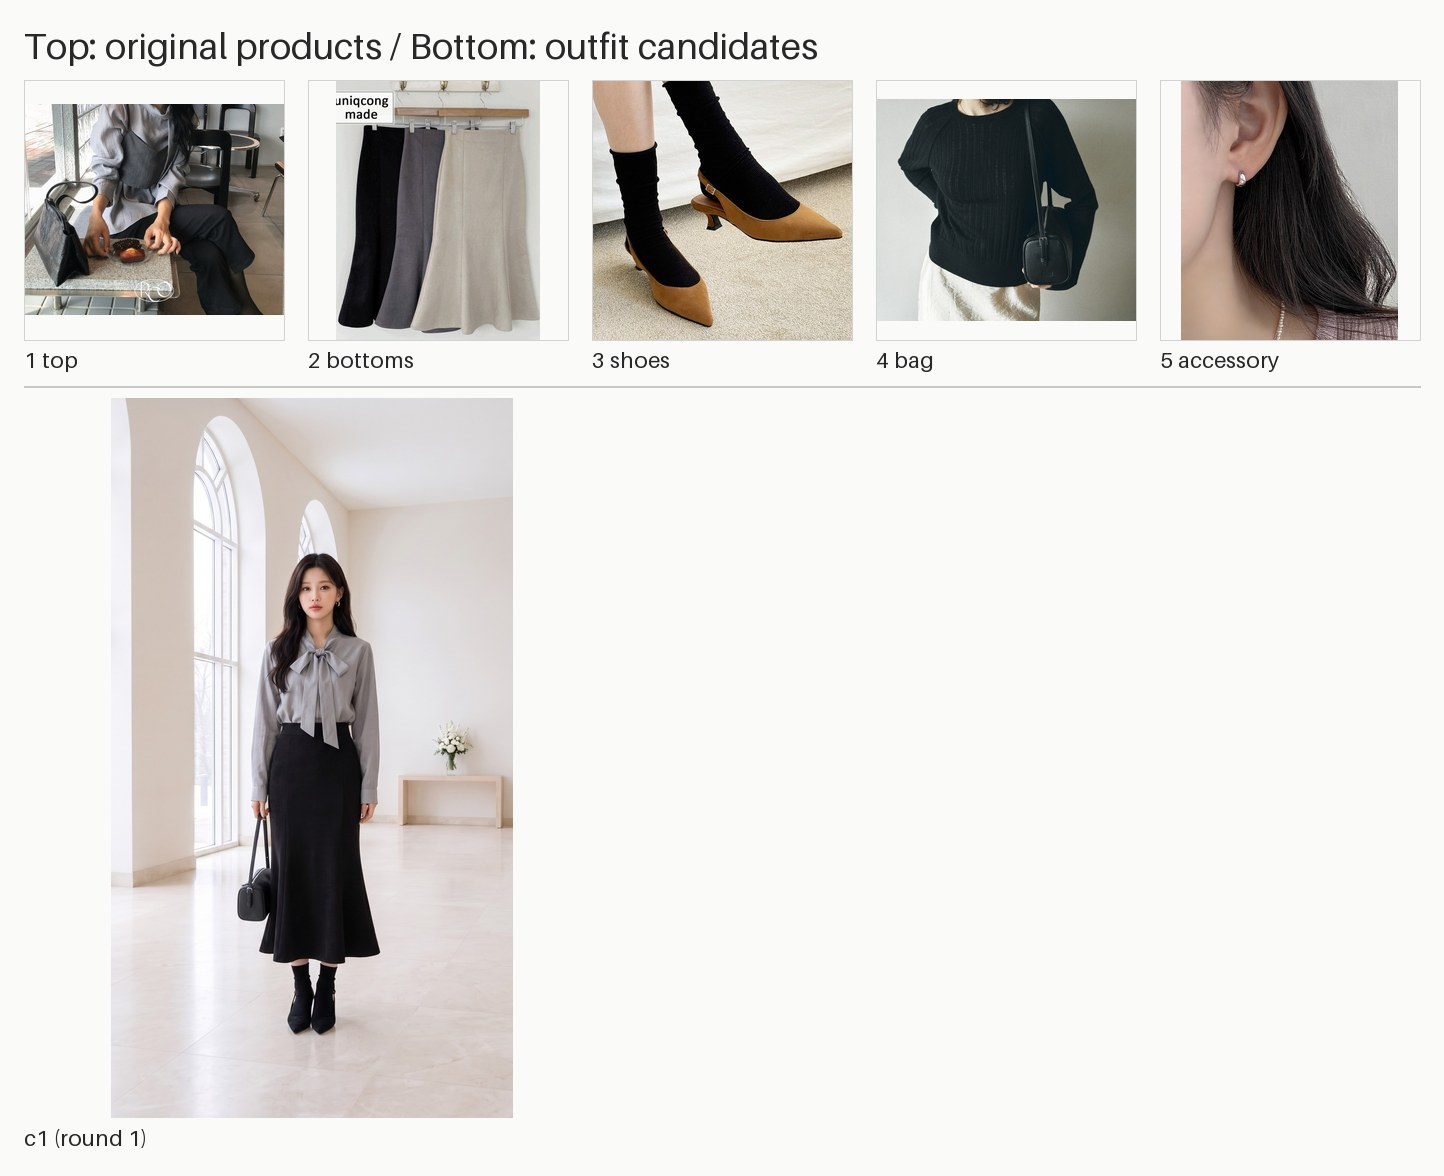
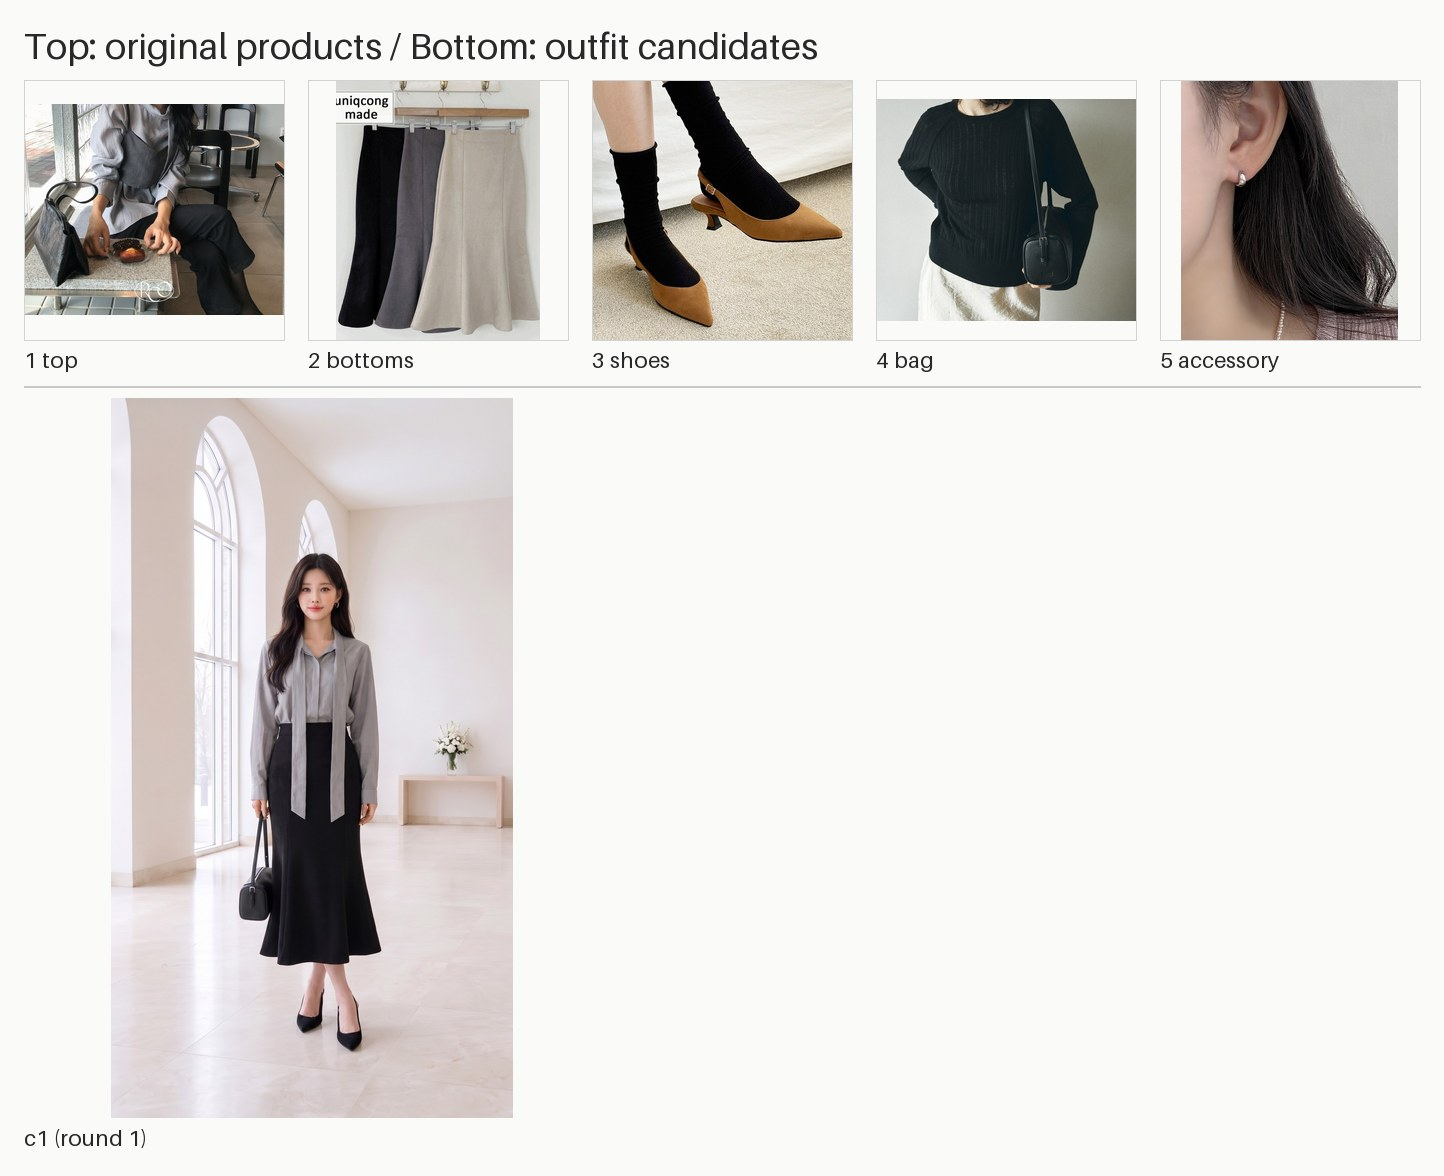
코디 영상 2026-11-07-run453-l123578 (scene_frames)

Changed region(s): [[0.1558, 0.4898, 0.2493, 0.7959], [0.187, 0.7959, 0.2493, 0.8878]]

diff --git a/2026-11-07-run453-l123578/video/scene/1/report.md b/2026-11-07-run453-l123578/video/scene/1/report.md
@@ -3,3 +3,8 @@
 
 - c1: 8/10 (color 2, shape 1, complete 2, clean 2, layout 1) ← 표지 1번 블라우스: 기준 코디 사진(worn_ref)은 타이를 매듭 없이 목에서 길게 늘어뜨렸는데 그림은 목 앞에 큰 리본 매듭이 묶여 있음 (shape 1). 2번 스커트는 블랙 머메이드, 기장(종아리 중간)과 핏 모두 상품과 같음. 3번 신발은 블랙 포인티드 슬링백이고 양말도 상품 사진대로임. 4번 가방은 손에 든 블랙 스퀘어 숄더백으로 같음. 5번 귀걸이는 실버 링을 한 쌍으로 그림. 배경은 빈 배경 사진과 같은 장소·빛·카메라 높이이고 인물 그림자와 빛도 어울림. 전신 크기는 화면 세로의 약 66%로 지시한 75%보다 확실히 작음 (layout 1). 가운데 정면 서기, 양발 간격, 팔 내림은 지시대로이고 머리와 신발은 잘리지 않음. 한 사람만 있고 글자나 없는 물건 없음. 얼굴은 선명하고 뭉개지지 않음. 얼굴 사진과 비교한 결과는 이 검수에서 확인하지 않았고 불일치는 감점하지 않음. 다리 비율은 정상. 여밈 비교: 참고는 블라우스를 앞으로 늘어뜨린 타이이고 그림은 리본 매듭이라 다름 (shape 1로 반영).
 - 요약: c1 은 상품과 배경이 잘 맞고 결함은 없음. 타이를 사진처럼 길게 늘어뜨리지 않고 리본으로 묶었고, 전신이 지시한 크기(75%)보다 작아 감점함 (합계 8점).
+
+## 이미지 검수: 통과 (회차 1/2)
+
+- c1: 8/10 (color 2, shape 1, complete 2, clean 2, layout 1) ← 표지 시작 자세: 요청은 두 발을 어깨너비보다 조금 좁게 벌리고 선 자세인데, 그림은 두 다리를 X자로 교차해 서 있음 → 1. 크기: 전신(머리~신발)이 화면 세로의 약 60% 로, 요청한 약 75% 보다 확실히 작음 → 1. 배경은 빈 배경(아치창, 꽃병 테이블, 대리석 바닥)과 같은 장소·빛이고 그림자와 반사도 자연스러워 오려 붙인 느낌은 없음. 전신이 모두 보이고 테두리도 없음. 한 사람만 나옴. 1번 블라우스: 그레이 타이넥 블라우스가 맞고 타이를 매듭 없이 길게 늘어뜨림. 다만 기준 코디 사진의 블라우스는 비치는 시스루 결에 깃 둘레로 느슨하게 묶인 타이인데, 그림은 불투명한 매트 천이고 스탠드 칼라 형태라 소재·넥라인 디테일이 조금 다름 → shape 1. 2번 머메이드 스커트: 블랙, 하이웨이스트, 아래로 퍼지는 머메이드 실루엣과 기장(종아리 중간)이 기준 사진과 같고 블라우스를 넣어 입은 모양도 같음. 3번 신발: 블랙 포인티드 힐이 2짝으로 맞는데, 슬링백 스트랩이 뒤꿈치에 거의 안 보이고 앞에서 본 일반 펌프스 같음. 4번 가방: 블랙 숄더백을 한 손에 들었고 모양은 원본과 같음. 5번 귀걸이: 작은 실버 링이 한쪽에 보임. 얼굴은 흐리거나 뭉개지지 않음. 얼굴 사진(face.jpg)은 열어 비교하지 않았으므로 얼굴 일치 여부는 판단하지 않음. 여밈: 참고 코디에는 앞을 여미는 단추가 없고 타이를 늘어뜨린 모양인데, 그림도 같음 → 문제 없음.
+- 요약: c1 은 배경과 옷의 색·모양이 상품과 거의 같고 이상한 물건도 없음. 다만 다리를 교차한 자세와 작은 전신 크기(약 60%, 요청 75%)가 시작 자세·크기 요청과 다르고, 블라우스 소재가 기준 사진보다 불투명함. 합계 8점으로 통과선이지만 자세와 크기가 어긋나 다시 그리는 편이 안전함.

diff --git a/2026-11-07-run453-l123578/video/scene/1/review/input.md b/2026-11-07-run453-l123578/video/scene/1/review/input.md
@@ -23,7 +23,7 @@
 
 ## 점수를 매길 코디컷 후보
 
-- c1: `outfit/results/S_1.jpg`
+- c1: `outfit/results/S_2.jpg`
 
 ## 캐러셀 상품 장
 
